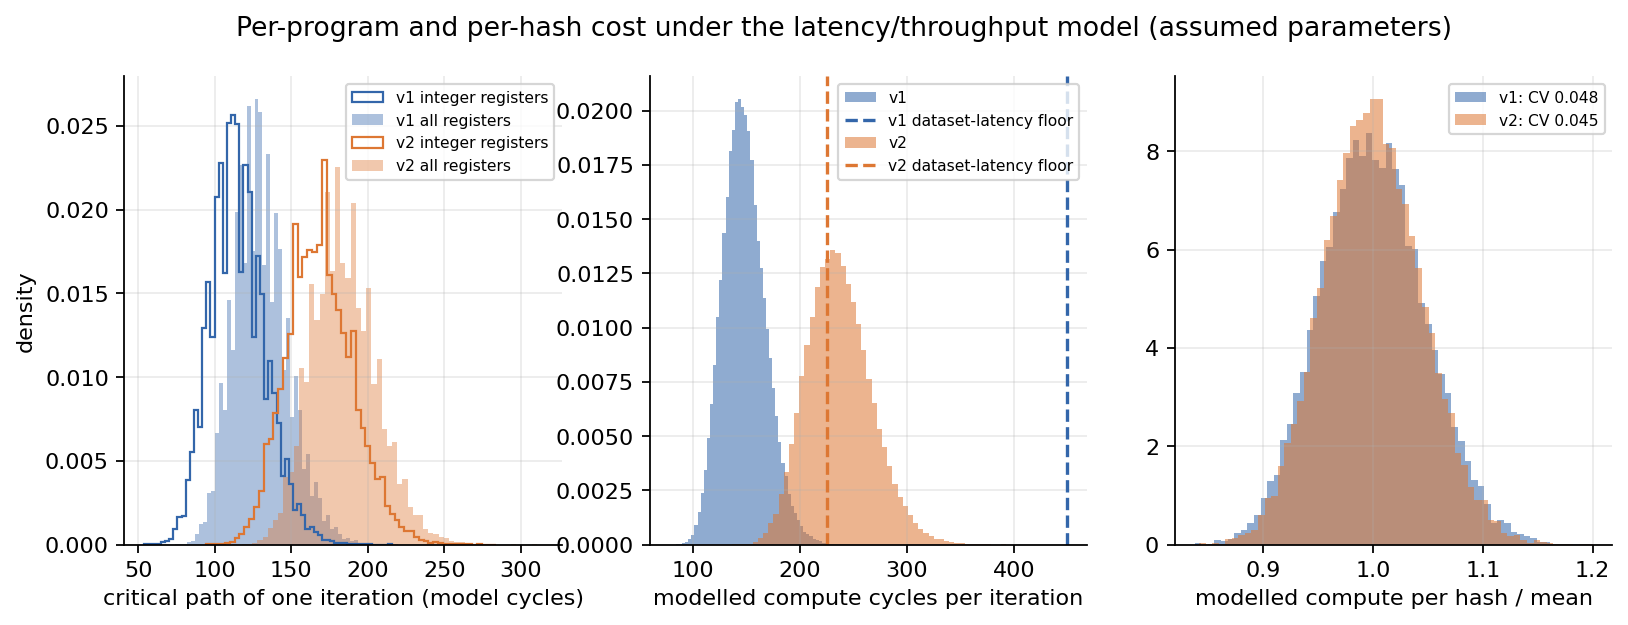
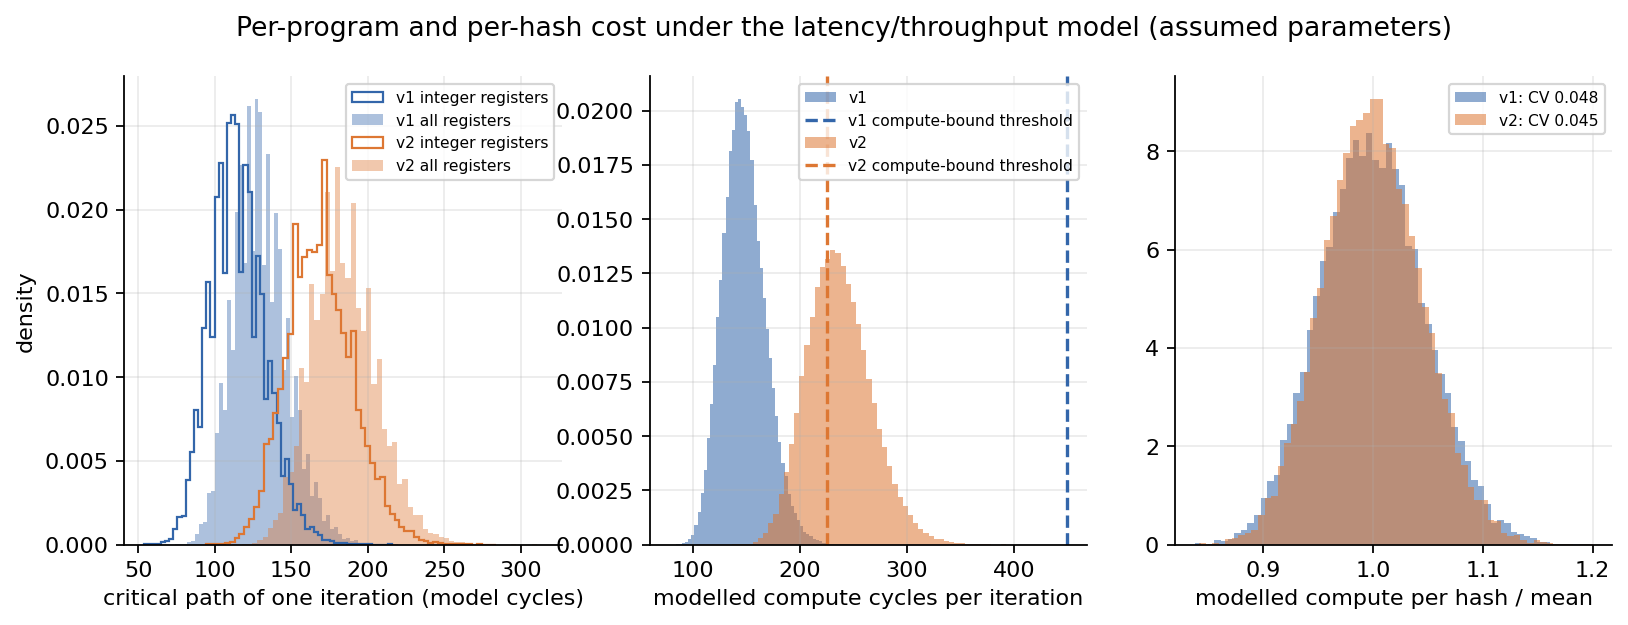
program_structure: warp statistic over 32 different programs; CBRANCH baseline from static counts
The warp-jump rate modelled one program on all 32 lanes. Expected jumps
now come from the static CBRANCH count: cbr_exec includes each jump's
own re-execution, so it depends on the outcome. Results regenerated.

Changed region(s): [[0.4914, 0.1216, 0.6757, 0.304]]

diff --git a/experiments/program_structure.py b/experiments/program_structure.py
@@ -50,14 +50,16 @@ def simt(tab, v2):
     warps = types[: len(types) // WARP * WARP].reshape(-1, WARP, types.shape[1])
     distinct = np.array([[len(np.unique(w[:, s])) for s in range(w.shape[1])] for w in warps])
     p = np.array([f for _, f in params.FREQUENCIES], dtype=float) / 256
-    lane_jump = tab["taken"] / params.PROGRAM_ITERATIONS  # jumps per iteration per program
+    lane_jump = P.per_input(tab, "taken").ravel() / params.PROGRAM_ITERATIONS
+    # Warps of 32 consecutive programs; a lane's jumps in one iteration taken as Poisson.
+    warp_jump = lane_jump[: len(lane_jump) // WARP * WARP].reshape(-1, WARP).sum(1)
     return {
         "programs_sampled": int(len(raw)),
         "distinct_types_per_warp_slot_mean": float(distinct.mean()),
         "distinct_types_per_warp_slot_expected": float(np.sum(1 - (1 - p) ** WARP)),
         "same_type_probability_two_lanes": float(np.sum(p ** 2)),
         "lane_jumps_per_iteration_mean": float(lane_jump.mean()),
-        "warp_iterations_with_a_jump": float(1 - np.mean((1 - lane_jump) ** WARP)),
+        "warp_iterations_with_a_jump": float(1 - np.mean(np.exp(-warp_jump))),
     }
 
 
@@ -79,7 +81,9 @@ def summarise(tab, v2):
     adjacent = np.corrcoef(compute[:, :-1].ravel(), compute[:, 1:].ravel())[0, 1]
     executed = P.per_input(tab, "executed").sum(1)
     reexec = (tab["executed"] - iters * size) / iters
-    expected_taken = tab["cbr_exec"] * 2.0 ** -params.JUMP_BITS
+    # Expected jumps from the static branch count: every jump re-executes its own
+    # CBRANCH once (cbr_exec = static + taken), so cbr_exec depends on the outcome.
+    expected_taken = iters * tab["n_CBRANCH"] * 2.0 ** -params.JUMP_BITS
     return {
         "programs": n,
         "inputs": n // params.PROGRAM_COUNT,
@@ -110,6 +114,8 @@ def summarise(tab, v2):
             "expected_per_program": exp["cbranch"],
             "taken_rate_measured": float(tab["taken"].sum() / tab["cbr_exec"].sum()),
             "taken_rate_expected": 2.0 ** -params.JUMP_BITS,
+            "taken_per_static_execution": float(tab["taken"].sum()
+                                                / (iters * tab["n_CBRANCH"].sum())),
             "body_length_mean": float(tab["cbr_body"].sum() / tab["n_CBRANCH"].sum()),
             "body_length_max": int(tab["cbr_body_max"].max()),
             "reexecuted_slots_per_iteration_measured": float(reexec.mean()),
@@ -137,7 +143,8 @@ def summarise(tab, v2):
                                     for k in ("throughput", "int_chain", "window")},
             "mean_additive_components": {k: float(np.mean(cost[k]))
                                          for k in ("reexec", "mispredict", "fprc")},
-            "memory_floor_cycles": float(cost["memory_floor"]),
+            "memory_floor_cycles": P.describe(cost["memory_floor"]),
+            "compute_bound_above_cycles": float(cost["compute_bound_above"]),
             "compute_above_memory_floor_share": float(np.mean(cost["compute"] > cost["memory_floor"])),
             "cycles_per_iteration": P.describe(cost["cycles"]),
             "per_hash_compute_cycles": P.describe(hash_compute),
@@ -228,8 +235,8 @@ def figures(tabs, out):
         axes[0].hist(tab["cp_model"], bins=60, density=True, alpha=0.4, color=color,
                      label=f"{v} all registers")
         axes[1].hist(cost["compute"], bins=60, density=True, alpha=0.55, color=color, label=v)
-        axes[1].axvline(cost["memory_floor"], color=color, ls="--",
-                        label=f"{v} dataset-latency floor")
+        axes[1].axvline(cost["compute_bound_above"], color=color, ls="--",
+                        label=f"{v} compute-bound threshold")
         axes[2].hist(per_hash / per_hash.mean(), bins=60, density=True, alpha=0.55, color=color,
                      label=f"{v}: CV {per_hash.std() / per_hash.mean():.3f}")
     axes[0].set_xlabel("critical path of one iteration (model cycles)")
